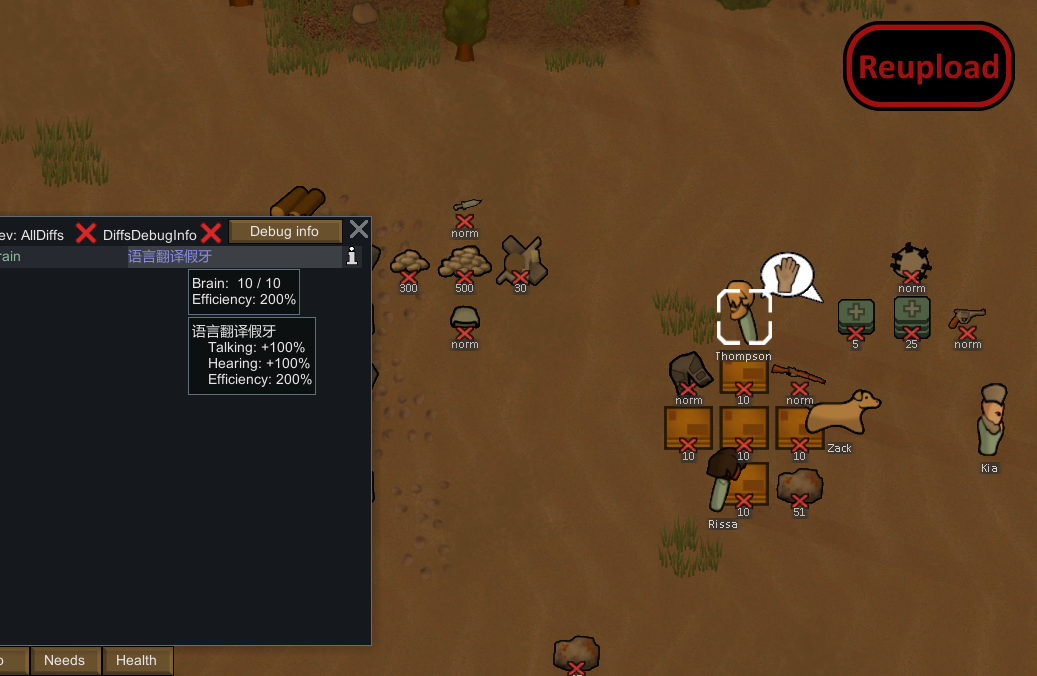
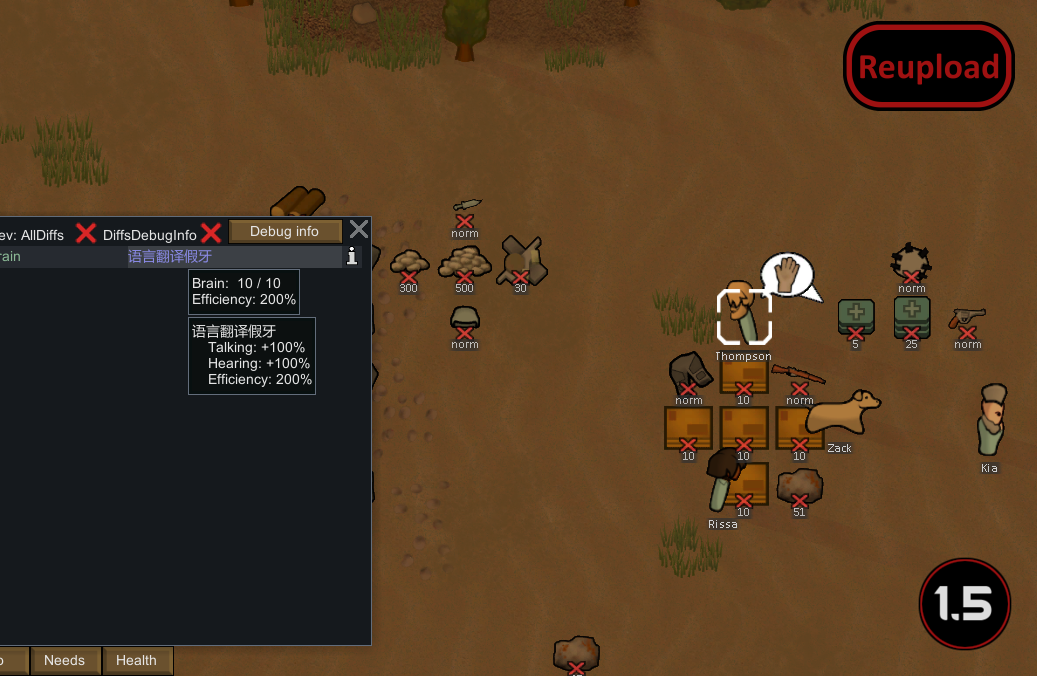
Mod updated for 1.5 and passed autotests

Changed region(s): [[0.864, 0.8077, 0.9875, 0.963]]

diff --git a/README.md b/README.md
@@ -43,10 +43,13 @@ Update log:
 
 -  See if the the error persists if you just have this mod and its requirements active.
 -  If not, try adding your other mods until it happens again.
--  Post your error-log using https://steamcommunity.com/workshop/filedetails/?id=818773962]HugsLib and command Ctrl+F12
+-  Post your error-log using https://steamcommunity.com/workshop/filedetails/?id=818773962]HugsLib or the standalone https://steamcommunity.com/sharedfiles/filedetails/?id=2873415404]Uploader and command Ctrl+F12
 -  For best support, please use the Discord-channel for error-reporting.
 -  Do not report errors by making a discussion-thread, I get no notification of that.
 -  If you have the solution for a problem, please post it to the GitHub repository.
+-  Use https://github.com/RimSort/RimSort/releases/latest]RimSort to sort your mods
 
 
+
+https://steamcommunity.com/sharedfiles/filedetails/changelog/2610389919]![Image](https://img.shields.io/github/v/release/emipa606/CIWSBionic?label=latest%20version&style=plastic&color=9f1111&labelColor=black)
 
